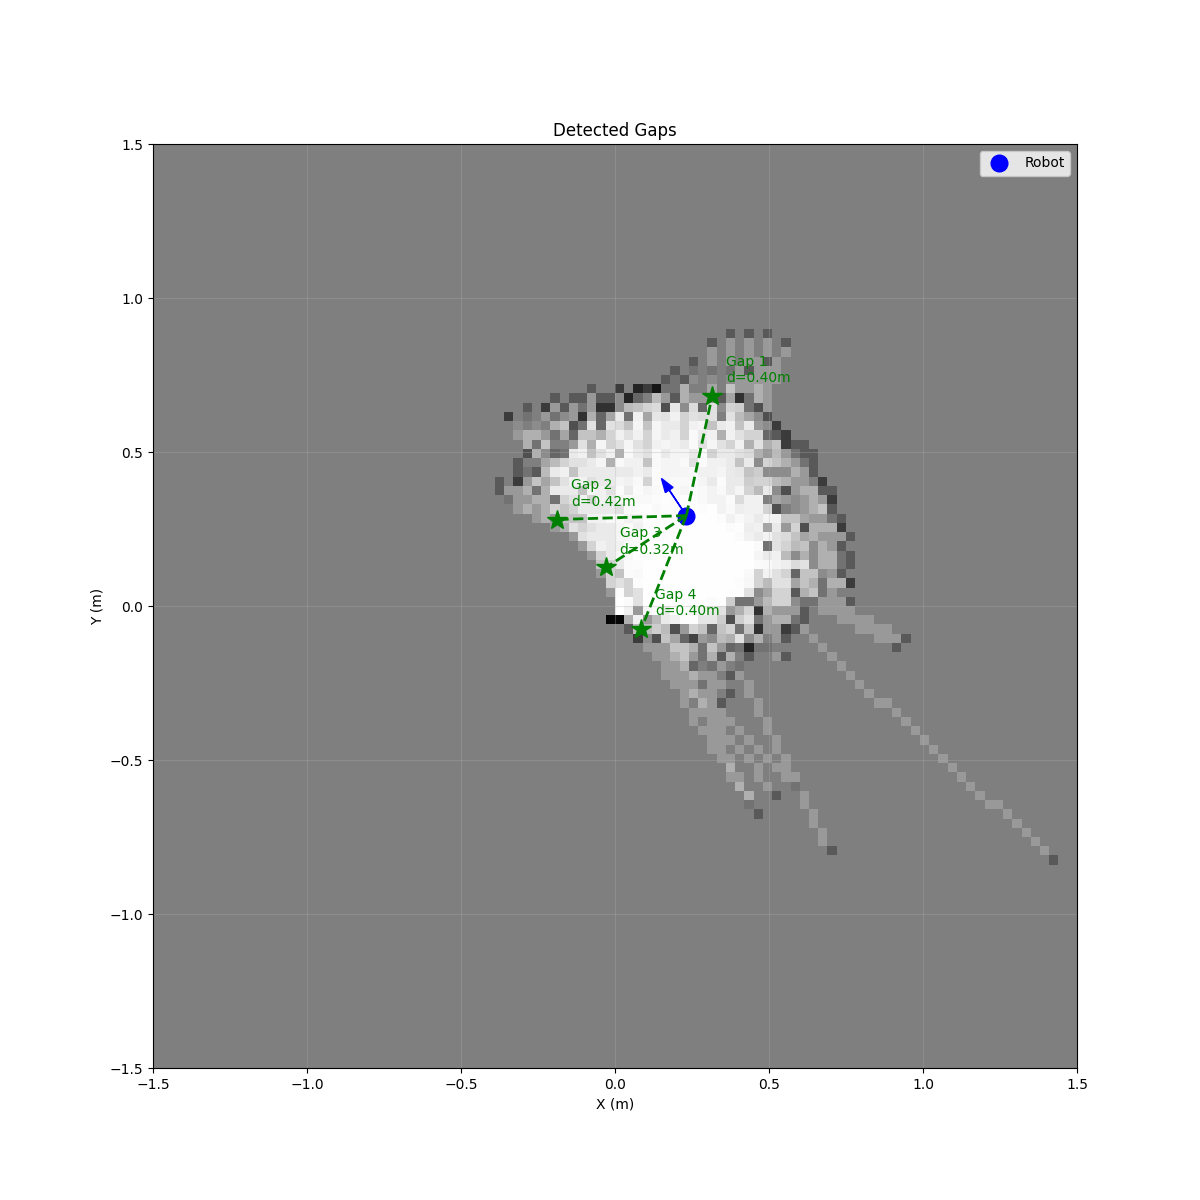
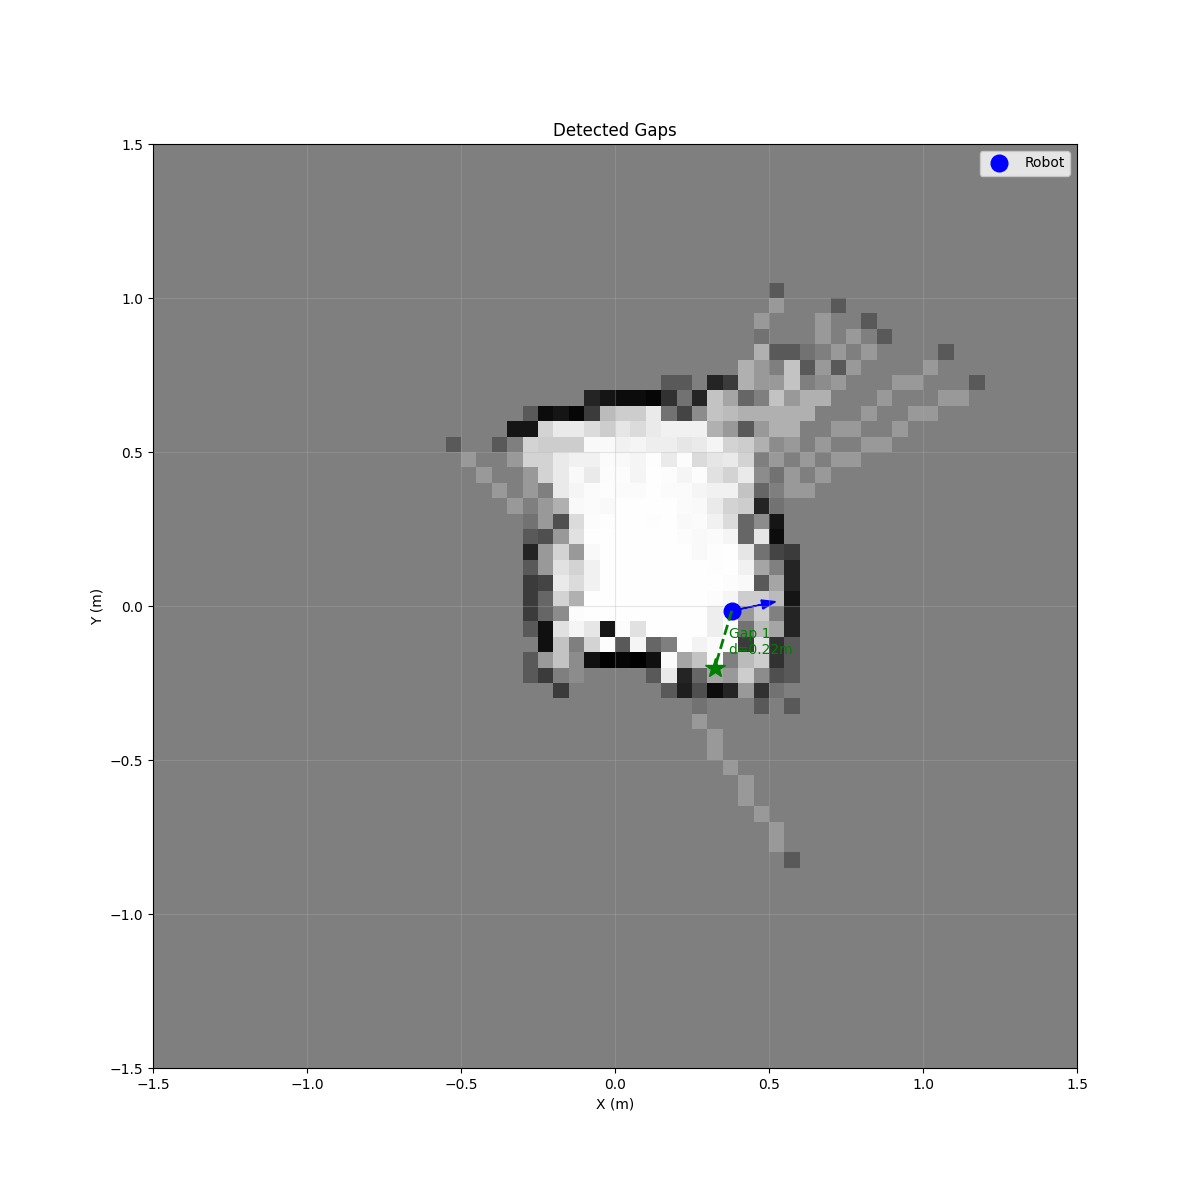
Adjusted gap detection

diff --git a/pc/pc_slam.py b/pc/pc_slam.py
@@ -489,6 +489,10 @@ class EKFSlam:
             dx = cx - rx
             dy = cy - ry
             r = np.sqrt(dx**2 + dy**2)
+
+            if r > 1.5: # Reject corners detected further than the reliable distance
+                print(f"Rejecting corner at ({cx:.2f}, {cy:.2f}) - Too far r = {r:.2f}")
+
             b = np.arctan2(dy, dx) - rtheta
             observations.append((r,b))
 
@@ -851,21 +855,18 @@ class PathPlanner:
         # Filter small clusters and return as (x, y)
         return [(c[0], c[1]) for c in clusters if c[2] >= 3]
     
-    def find_gaps_in_grid(self, pose, min_gap_width=0.25):
-        """Find gaps in occupied cells that could be doors"""
+    def find_gaps_in_grid(self, pose, min_gap_width=0.20):
+        """Find actual openings in walls, not just unexplored areas"""
         prob_grid = self.grid.get_probability_grid()
         rx, ry, rtheta = pose
-        gaps = []
         
-        # Cast rays from robot position in all directions
-        for angle_deg in range(0, 360, 5):
+        # For each ray, record: did it hit a wall, and at what distance?
+        ray_results = []
+        
+        for angle_deg in range(0, 360, 3):  # Finer resolution
             angle = math.radians(angle_deg)
             
-            # Cast ray and record what we hit
-            hit_wall = False
-            last_free_point = None
-            wall_start = None
-            wall_end = None
+            wall_dist = None
             
             for dist in np.arange(0.1, 1.5, self.grid.resolution):
                 wx = rx + dist * math.cos(angle)
@@ -877,23 +878,50 @@ class PathPlanner:
                 
                 prob = prob_grid[gy, gx]
                 
-                if prob < 0.4:  # Free
-                    last_free_point = (wx, wy, dist)
-                    if hit_wall:
-                        wall_end = dist
-                elif prob > 0.6:  # Occupied
-                    if not hit_wall:
-                        wall_start = dist
-                    hit_wall = True
+                if prob > 0.6:  # Hit wall
+                    wall_dist = dist
+                    break
             
-            # If ray went through free space without hitting a wall, could be a gap
-            if last_free_point is not None and not hit_wall:
-                if last_free_point[2] > 0.3:  # At least 30cm of clear path
-                    gaps.append({
-                        'center': (last_free_point[0], last_free_point[1]),
-                        'angle': angle,
-                        'distance': last_free_point[2]
-                    })
+            ray_results.append({
+                'angle': angle,
+                'angle_deg': angle_deg,
+                'wall_dist': wall_dist  # None if no wall hit
+            })
+        
+        # Find gaps: sequences where neighboring rays hit walls, 
+        # but middle rays don't (or hit walls much further away)
+        gaps = []
+        n_rays = len(ray_results)
+        
+        for i in range(n_rays):
+            # Look for pattern: wall - no wall - wall
+            prev_idx = (i - 5) % n_rays  # ~15 degrees back
+            next_idx = (i + 5) % n_rays  # ~15 degrees forward
+            
+            prev_ray = ray_results[prev_idx]
+            curr_ray = ray_results[i]
+            next_ray = ray_results[next_idx]
+            
+            # Check if neighbors hit walls but current doesn't (or hits much further)
+            prev_has_wall = prev_ray['wall_dist'] is not None and prev_ray['wall_dist'] < 1.0
+            next_has_wall = next_ray['wall_dist'] is not None and next_ray['wall_dist'] < 1.0
+            curr_no_wall = curr_ray['wall_dist'] is None or curr_ray['wall_dist'] > 1.2
+            
+            if prev_has_wall and next_has_wall and curr_no_wall:
+                # This looks like a gap - opening between two walls
+                angle = curr_ray['angle']
+                
+                # Gap distance is average of neighboring wall distances
+                gap_dist = (prev_ray['wall_dist'] + next_ray['wall_dist']) / 2
+                
+                gap_x = rx + gap_dist * math.cos(angle)
+                gap_y = ry + gap_dist * math.sin(angle)
+                
+                gaps.append({
+                    'center': (gap_x, gap_y),
+                    'angle': angle,
+                    'distance': gap_dist
+                })
         
         # Cluster nearby gaps
         clustered_gaps = []
@@ -912,7 +940,7 @@ class PathPlanner:
                         (gap['center'][0] - other['center'][0])**2 +
                         (gap['center'][1] - other['center'][1])**2
                     )
-                    if dist < 0.2:
+                    if dist < 0.25:
                         cluster.append(other)
                         used[j] = True
             
@@ -929,8 +957,8 @@ class PathPlanner:
                 'size': len(cluster)
             })
         
-        # Filter to significant gaps (multiple rays passed through)
-        significant = [g for g in clustered_gaps if g['size'] >= 3]
+        # Filter to significant gaps (multiple rays)
+        significant = [g for g in clustered_gaps if g['size'] >= 2]
         
         return significant
     

diff --git a/pc/pc_control.py b/pc/pc_control.py
@@ -6,7 +6,7 @@ import time
 ev3 = EV3Connection("/dev/rfcomm0")
 scans = Scans()
 ekf = EKFSlam()
-occ_grid = OccupancyGrid(size=3.0, resolution=0.03)
+occ_grid = OccupancyGrid(size=3.0, resolution=0.05)
 trajectory = []
 plotter = LivePlotter(occ_grid)
 explorer = Explorer(ev3, scans, ekf)
@@ -162,7 +162,7 @@ def find_exit_in_map():
             (gap['center'][0] - explorer.entry_pose[0])**2 +
             (gap['center'][1] - explorer.entry_pose[1])**2
         )
-        if dist_to_entry > 0.4:
+        if dist_to_entry > 0.2:
             valid_gaps.append(gap)
             print(f"    Gap at ({gap['center'][0]:.2f}, {gap['center'][1]:.2f}), dist={gap['distance']:.2f}m")
         else:
